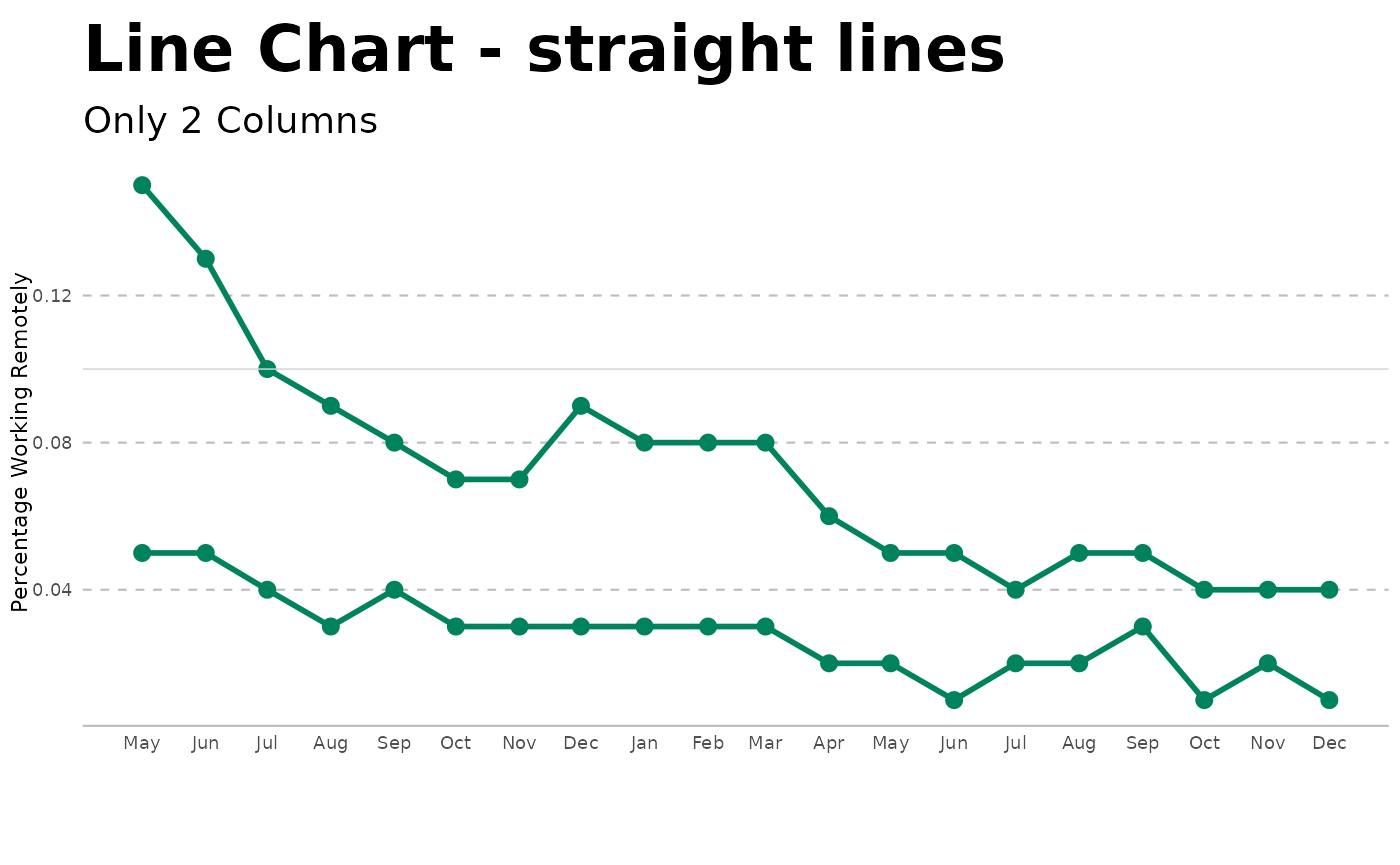
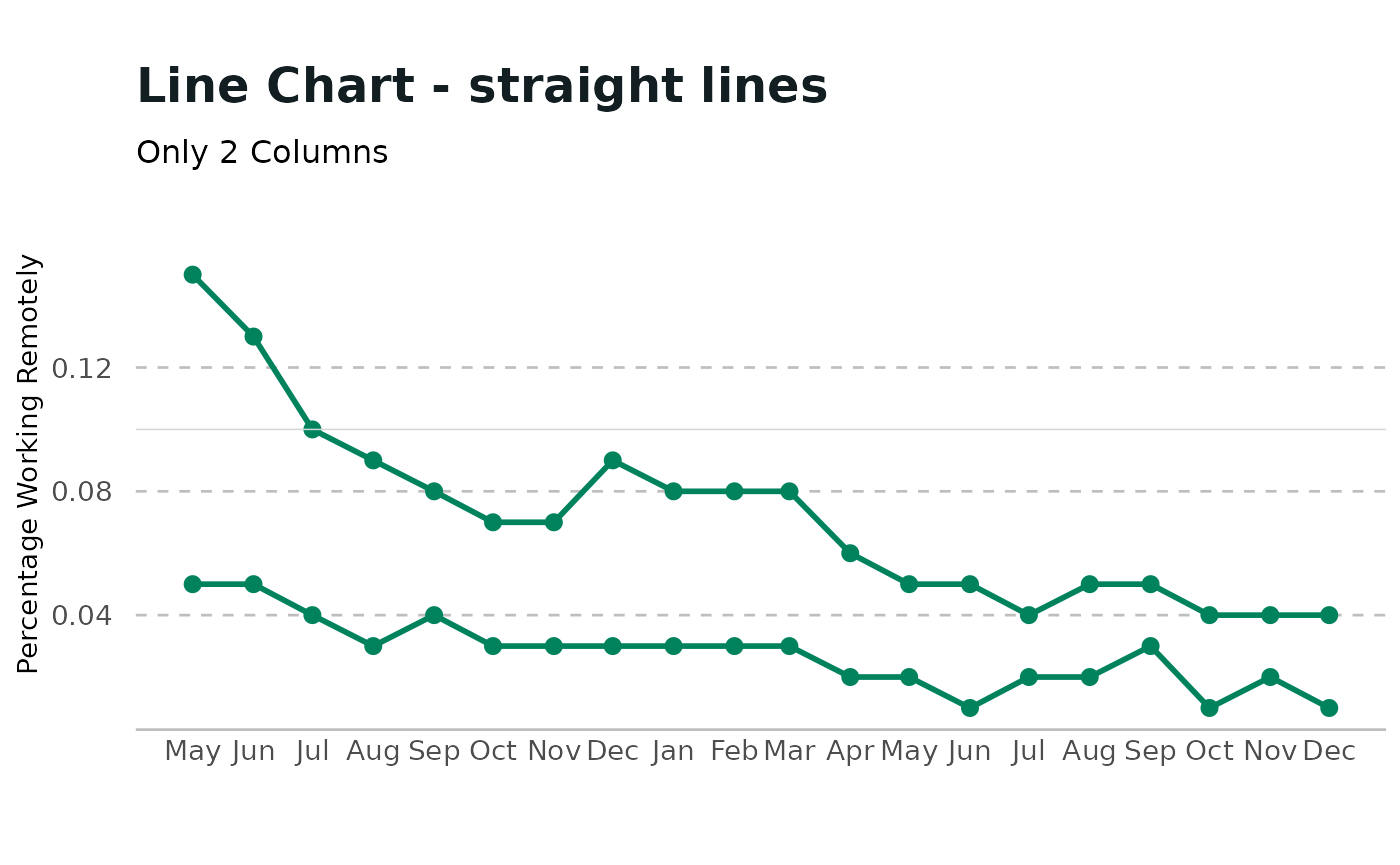
Built site for coriplot: 0.0.0.9000@f1bcf44

diff --git a/articles/coriplot.html b/articles/coriplot.html
@@ -92,17 +92,25 @@
 
 <span class="fu"><a href="https://rdrr.io/r/utils/data.html" class="external-link">data</a></span><span class="op">(</span><span class="st">"remote_work_by_ed_level"</span><span class="op">)</span>
 
-<span class="va">fig</span> <span class="op">&lt;-</span> <span class="va">remote_work_by_ed_level</span> <span class="op"><a href="https://magrittr.tidyverse.org/reference/pipe.html" class="external-link">%&gt;%</a></span>
-  <span class="fu"><a href="https://ggplot2.tidyverse.org/reference/ggplot.html" class="external-link">ggplot</a></span><span class="op">(</span><span class="fu"><a href="https://ggplot2.tidyverse.org/reference/aes.html" class="external-link">aes</a></span><span class="op">(</span><span class="fu"><a href="https://rdrr.io/r/base/as.Date.html" class="external-link">as.Date</a></span><span class="op">(</span><span class="va">date</span><span class="op">)</span>, <span class="va">pct_working_remotely</span>, group <span class="op">=</span> <span class="va">education_level</span>, color <span class="op">=</span> <span class="va">education_level</span><span class="op">)</span><span class="op">)</span> <span class="op">+</span>
-  <span class="fu"><a href="https://ggplot2.tidyverse.org/reference/geom_path.html" class="external-link">geom_line</a></span><span class="op">(</span>lwd <span class="op">=</span> <span class="fl">1.5</span><span class="op">)</span> <span class="op">+</span>
-  <span class="fu"><a href="https://ggplot2.tidyverse.org/reference/labs.html" class="external-link">xlab</a></span><span class="op">(</span><span class="st">""</span><span class="op">)</span> <span class="op">+</span>
-  <span class="fu"><a href="https://ggplot2.tidyverse.org/reference/scale_date.html" class="external-link">scale_x_date</a></span><span class="op">(</span>date_breaks <span class="op">=</span> <span class="st">"1 month"</span>, date_labels <span class="op">=</span>  <span class="st">"%b"</span><span class="op">)</span> <span class="op">+</span> 
-  <span class="fu"><a href="https://ggplot2.tidyverse.org/reference/scale_continuous.html" class="external-link">scale_y_continuous</a></span><span class="op">(</span>expand <span class="op">=</span> <span class="fu"><a href="https://rdrr.io/r/base/c.html" class="external-link">c</a></span><span class="op">(</span><span class="fl">0</span>, <span class="fl">0</span><span class="op">)</span><span class="op">)</span> <span class="op">+</span>
-  <span class="fu"><a href="https://ggplot2.tidyverse.org/reference/geom_point.html" class="external-link">geom_point</a></span><span class="op">(</span>size <span class="op">=</span> <span class="fl">2</span><span class="op">)</span><span class="op">+</span>
-  <span class="fu"><a href="https://ggplot2.tidyverse.org/reference/labs.html" class="external-link">ggtitle</a></span><span class="op">(</span><span class="st">"Line Chart - straight lines"</span><span class="op">)</span> <span class="op">+</span>
-  <span class="fu"><a href="https://ggplot2.tidyverse.org/reference/labs.html" class="external-link">labs</a></span><span class="op">(</span>subtitle <span class="op">=</span> <span class="st">"Multiple Colors"</span><span class="op">)</span><span class="op">+</span>
-  <span class="fu"><a href="../reference/scale_color_cori.html">scale_color_cori</a></span><span class="op">(</span><span class="op">)</span> 
-<span class="va">fig</span> </code></pre></div>
+<span class="va">remote_work_by_ed_level</span> <span class="op"><a href="https://magrittr.tidyverse.org/reference/pipe.html" class="external-link">%&gt;%</a></span>
+    <span class="fu"><a href="https://ggplot2.tidyverse.org/reference/ggplot.html" class="external-link">ggplot</a></span><span class="op">(</span>
+      <span class="fu"><a href="https://ggplot2.tidyverse.org/reference/aes.html" class="external-link">aes</a></span><span class="op">(</span><span class="fu"><a href="https://rdrr.io/r/base/as.Date.html" class="external-link">as.Date</a></span><span class="op">(</span><span class="va">date</span><span class="op">)</span>,
+          <span class="va">pct_working_remotely</span>,
+          group <span class="op">=</span> <span class="va">education_level</span>,
+          color <span class="op">=</span> <span class="va">education_level</span><span class="op">)</span><span class="op">)</span> <span class="op">+</span>
+    <span class="fu"><a href="https://ggplot2.tidyverse.org/reference/geom_path.html" class="external-link">geom_line</a></span><span class="op">(</span>lwd <span class="op">=</span> <span class="fl">1.5</span><span class="op">)</span> <span class="op">+</span>
+    <span class="fu"><a href="https://ggplot2.tidyverse.org/reference/geom_point.html" class="external-link">geom_point</a></span><span class="op">(</span>size <span class="op">=</span> <span class="fl">2</span><span class="op">)</span> <span class="op">+</span>
+    <span class="fu"><a href="https://ggplot2.tidyverse.org/reference/scale_date.html" class="external-link">scale_x_date</a></span><span class="op">(</span>date_breaks <span class="op">=</span> <span class="st">"1 month"</span>, date_labels <span class="op">=</span>  <span class="st">"%b"</span><span class="op">)</span> <span class="op">+</span>
+    <span class="fu"><a href="https://ggplot2.tidyverse.org/reference/labs.html" class="external-link">labs</a></span><span class="op">(</span>
+      title <span class="op">=</span> <span class="st">"Title of the chart goes here.\nAvoid more than two lines"</span>,
+      subtitle <span class="op">=</span> <span class="st">"Subtitle goes here. Lorem ipsum dolor sit amet\nconsectetur adipiscing elit."</span>,
+      caption <span class="op">=</span> <span class="st">"Source: source goes here https://www.blah.com"</span><span class="op">)</span> <span class="op">+</span>
+    <span class="fu"><a href="https://ggplot2.tidyverse.org/reference/labs.html" class="external-link">xlab</a></span><span class="op">(</span><span class="st">"X Axis Title"</span><span class="op">)</span> <span class="op">+</span>
+    <span class="fu"><a href="https://ggplot2.tidyverse.org/reference/labs.html" class="external-link">ylab</a></span><span class="op">(</span><span class="st">"Y Axis Title"</span><span class="op">)</span> <span class="op">+</span>
+    <span class="fu"><a href="../reference/scale_color_cori.html">scale_color_cori</a></span><span class="op">(</span><span class="op">)</span> <span class="op">+</span>
+    <span class="fu"><a href="../reference/theme_cori.html">theme_cori</a></span><span class="op">(</span><span class="op">)</span> <span class="op">-&gt;</span> <span class="va">fig</span>
+
+<span class="va">fig</span></code></pre></div>
 <p><img src="coriplot_files/figure-html/example2-1.png" width="700"></p>
 <div class="sourceCode" id="cb2"><pre class="downlit sourceCode r">
 <code class="sourceCode R"><span class="fu"><a href="https://rdrr.io/r/utils/data.html" class="external-link">data</a></span><span class="op">(</span><span class="st">"time_series_sample_data"</span><span class="op">)</span>
